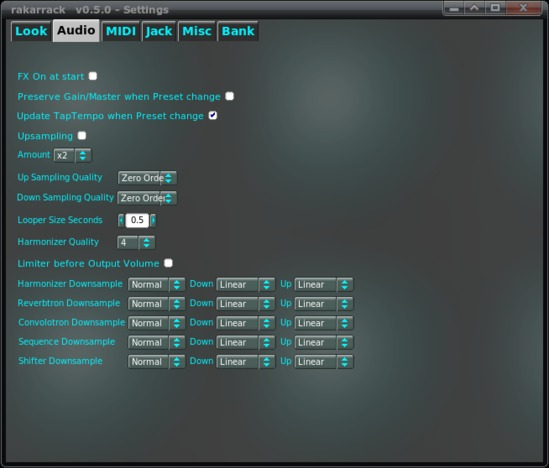
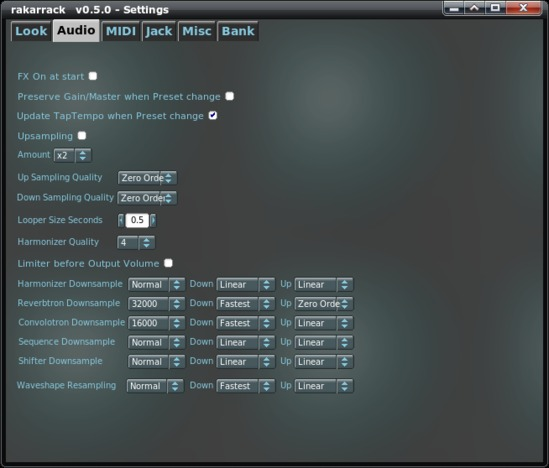
modified:   help/help.html 	modified:   help/imagenes/settings1.jpg

diff --git a/doc/help/help.html b/doc/help/help.html
@@ -452,6 +452,12 @@ presets. Of course that reduce the sound quality, but sure you can find a good
 balance settings. You can select the libsample rate quality for the Up/Down
 process.</p>
 
+<p><b>Whaveshape Resampling</b></p>
+<p> Distortion, Overdrive, Derelict, MBDist and StompBox effects use the
+waveshape internal class to saturate the signal, this kind of process
+produce sound aliasing, here you can resample in order to eliminate this
+aliasing, of course that will cost CPU.<p>
+
 <p><img alt="Settings MIDI" src="imagenes/settings2.jpg"></p>
 
 <p><b>Auto Connect ALSA Sequencer Ports</b></p>
